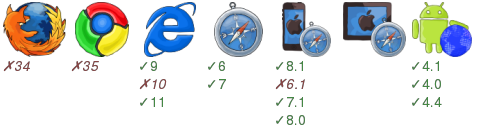
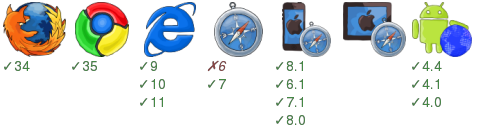
Auto commit smoke test results for 1fbbf8bbd844069dec9b2ac0ba6880cc2bcaf727 [ci skip]

diff --git a/examples/00hello/badge.html b/examples/00hello/badge.html
@@ -13,31 +13,31 @@ div{vertical-align:top;overflow:hidden;display:inline-block;width:92px;padding:4
 <body>
 <div>
 <img src="/home/travis/build/zordius/fluxex/examples/00hello/node_modules/badge-render/browser-badge/static/firefox.png" />
-<i>&#x2717;34</i>
+<p>&#x2713;34</p>
 </div><div>
 <img src="/home/travis/build/zordius/fluxex/examples/00hello/node_modules/badge-render/browser-badge/static/chrome.png" />
-<i>&#x2717;35</i>
+<p>&#x2713;35</p>
 </div><div>
 <img src="/home/travis/build/zordius/fluxex/examples/00hello/node_modules/badge-render/browser-badge/static/explorer.png" />
 <p>&#x2713;9</p>
-<i>&#x2717;10</i>
+<p>&#x2713;10</p>
 <p>&#x2713;11</p>
 </div><div>
 <img src="/home/travis/build/zordius/fluxex/examples/00hello/node_modules/badge-render/browser-badge/static/safari.png" />
-<p>&#x2713;6</p>
+<i>&#x2717;6</i>
 <p>&#x2713;7</p>
 </div><div>
 <img src="/home/travis/build/zordius/fluxex/examples/00hello/node_modules/badge-render/browser-badge/static/iphone.png" />
 <p>&#x2713;8.1</p>
-<i>&#x2717;6.1</i>
+<p>&#x2713;6.1</p>
 <p>&#x2713;7.1</p>
 <p>&#x2713;8.0</p>
 </div><div>
 <img src="/home/travis/build/zordius/fluxex/examples/00hello/node_modules/badge-render/browser-badge/static/ipad.png" />
 </div><div>
 <img src="/home/travis/build/zordius/fluxex/examples/00hello/node_modules/badge-render/browser-badge/static/android-browser.png" />
+<p>&#x2713;4.4</p>
 <p>&#x2713;4.1</p>
 <p>&#x2713;4.0</p>
-<p>&#x2713;4.4</p>
 </div></body>
 </html>
